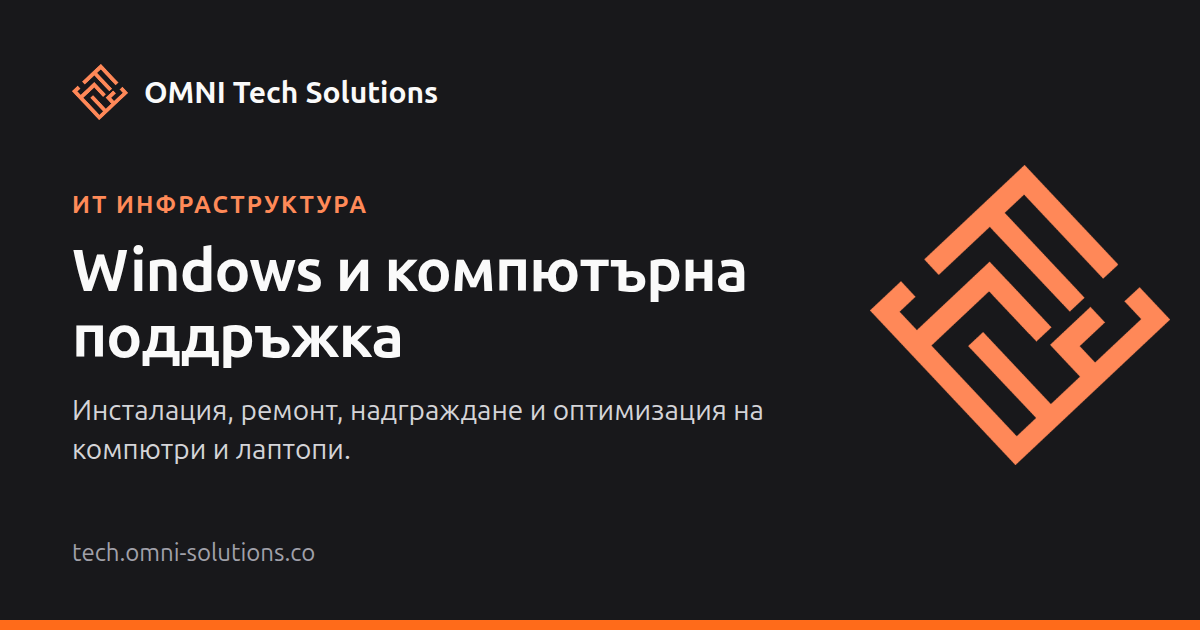
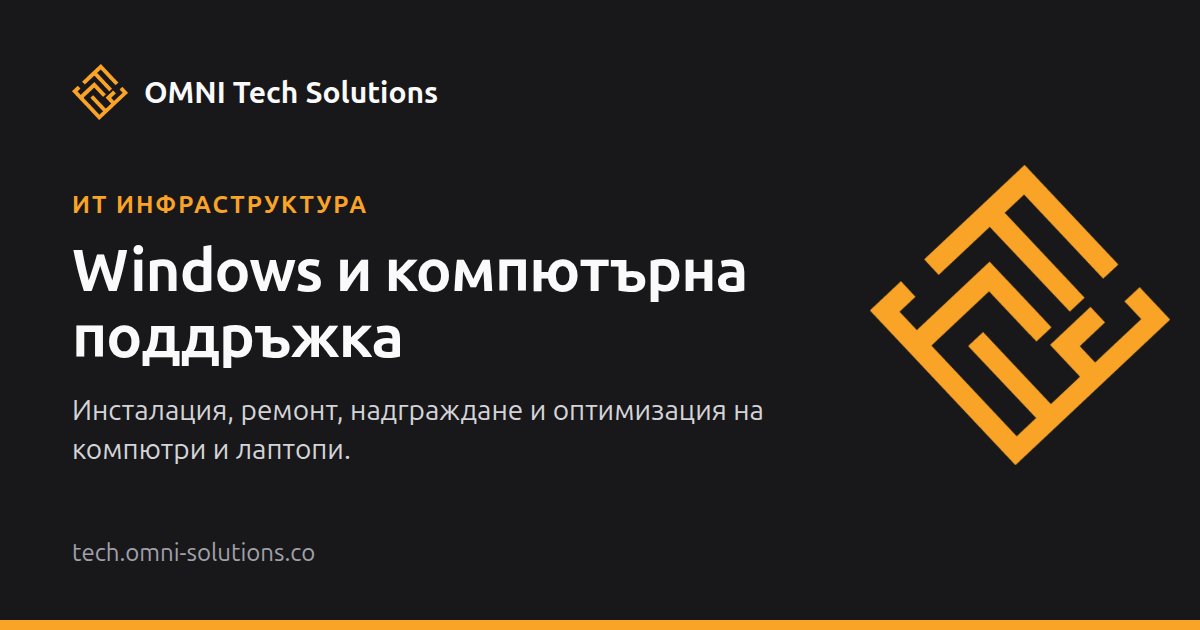
improvements

diff --git a/app/components/layout/Header.tsx b/app/components/layout/Header.tsx
@@ -85,7 +85,7 @@ export const Header: React.FC<HeaderProps> = ({ theme, toggleTheme, colors, acti
                 <div className="flex justify-between items-center h-20">
                     {/* Logo */}
                     <div className="flex items-center gap-3 cursor-pointer" onClick={() => scrollTo('home')}>
-                        {/* Same coral mark in both themes; 96 px file for a 48 px slot (scripts/brand/generate-icons.py) */}
+                        {/* Same yellow mark in both themes; 96 px file for a 48 px slot (scripts/brand/generate-icons.py) */}
                         <img
                             src="/assets/brand/logo-96.png"
                             width={48}
@@ -105,11 +105,11 @@ export const Header: React.FC<HeaderProps> = ({ theme, toggleTheme, colors, acti
                                 <button
                                     key={item.id}
                                     onClick={() => scrollTo(item.id)}
-                                    className={`flex items-center gap-2 py-2.5 ${activeSection === item.id ? 'text-[#ff6b1a]' : `${colors.textSec} hover:text-[#ff6b1a]`} transition-all duration-300 relative group focus:outline-none`}
+                                    className={`flex items-center gap-2 py-2.5 ${activeSection === item.id ? colors.accentText : `${colors.textSec} ${theme === 'dark' ? 'hover:text-[#f9a427]' : 'hover:text-[#a86400]'}`} transition-all duration-300 relative group focus:outline-none`}
                                 >
                                     {item.label}
                                     <span
-                                        className={`absolute -bottom-1 left-0 w-0 h-0.5 bg-[#ff6b1a] transition-all duration-300 group-hover:w-full ${
+                                        className={`absolute -bottom-1 left-0 w-0 h-0.5 bg-[#f9a427] transition-all duration-300 group-hover:w-full ${
                                             activeSection === item.id ? 'w-full' : ''
                                         }`}
                                     />
@@ -168,7 +168,7 @@ export const Header: React.FC<HeaderProps> = ({ theme, toggleTheme, colors, acti
                     {/* Mobile Menu Button */}
                     <button
                         onClick={() => setIsMenuOpen(!isMenuOpen)}
-                        className="md:hidden p-2 rounded-lg transition-all text-[#ff6b1a] hover:bg-[#ff6b1a]/10"
+                        className="md:hidden p-2 rounded-lg transition-all text-[#f9a427] hover:bg-[#f9a427]/10"
                     >
                         <svg className="w-8 h-8" fill="none" stroke="currentColor" viewBox="0 0 24 24">
                             <path
@@ -190,7 +190,7 @@ export const Header: React.FC<HeaderProps> = ({ theme, toggleTheme, colors, acti
                                     <button
                                         key={item.id}
                                         onClick={() => scrollTo(item.id)}
-                                        className={`flex items-center gap-3 w-full text-left py-3 px-4 rounded-lg ${activeSection === item.id ? 'text-[#ff6b1a] bg-[#ff6b1a]/10' : 'text-zinc-200 hover:text-[#ff6b1a] hover:bg-[#ff6b1a]/10'} transition-all duration-300 focus:outline-none`}
+                                        className={`flex items-center gap-3 w-full text-left py-3 px-4 rounded-lg ${activeSection === item.id ? 'text-[#f9a427] bg-[#f9a427]/10' : 'text-zinc-200 hover:text-[#f9a427] hover:bg-[#f9a427]/10'} transition-all duration-300 focus:outline-none`}
                                     >
                                         {item.label}
                                     </button>

diff --git a/app/components/sections/ServiceDetails.tsx b/app/components/sections/ServiceDetails.tsx
@@ -38,7 +38,7 @@ interface ServiceDetailPageProps {
 /**
  * Service page, kept as plain as the homepage: what it is and what it costs,
  * what's included, the price list, how the work goes, and one call to action.
- * Orange is reserved for the primary button.
+ * The brand yellow is reserved for the primary button.
  */
 export const ServiceDetailPage: React.FC<ServiceDetailPageProps> = ({ colors }) => {
     const { t } = useTranslation();
@@ -58,9 +58,9 @@ export const ServiceDetailPage: React.FC<ServiceDetailPageProps> = ({ colors }) 
     // The contact form lives on the homepage
     const goToContact = () => router.push('/#contact');
 
-    const primaryButton = `group inline-flex items-center justify-center gap-2 px-7 py-3.5 font-semibold text-white ${BORDER_RADIUS.md} transition-colors duration-200 hover:bg-[#e85d0f] focus:outline-none focus-visible:ring-2 focus-visible:ring-[#ff6b1a] focus-visible:ring-offset-2`;
+    const primaryButton = `group inline-flex items-center justify-center gap-2 px-7 py-3.5 font-semibold text-zinc-950 ${BORDER_RADIUS.md} transition-colors duration-200 hover:bg-[#e8930f] focus:outline-none focus-visible:ring-2 focus-visible:ring-[#f9a427] focus-visible:ring-offset-2`;
     // Both places the buttons appear are dark bands on phones, hence the max-sm colours
-    const secondaryButton = `inline-flex items-center justify-center gap-2 px-7 py-3.5 font-semibold ${BORDER_RADIUS.md} border ${colors.border} ${colors.text} max-sm:border-zinc-700 max-sm:text-white max-sm:bg-white/5 transition-colors duration-200 hover:border-zinc-400 focus:outline-none focus-visible:ring-2 focus-visible:ring-[#ff6b1a] focus-visible:ring-offset-2`;
+    const secondaryButton = `inline-flex items-center justify-center gap-2 px-7 py-3.5 font-semibold ${BORDER_RADIUS.md} border ${colors.border} ${colors.text} max-sm:border-zinc-700 max-sm:text-white max-sm:bg-white/5 transition-colors duration-200 hover:border-zinc-400 focus:outline-none focus-visible:ring-2 focus-visible:ring-[#f9a427] focus-visible:ring-offset-2`;
 
     if (!service || !config || !IconComponent) {
         return (
@@ -136,10 +136,10 @@ export const ServiceDetailPage: React.FC<ServiceDetailPageProps> = ({ colors }) 
 
                     <div className="mt-10 max-w-3xl">
                         <div className="flex items-center gap-3 mb-5">
-                            <span className={`w-12 h-12 rounded-xl flex items-center justify-center ${isDark ? 'bg-zinc-700/60' : 'bg-gray-100'} max-sm:bg-[#ff6b1a]/15`}>
-                                <IconComponent className={`w-6 h-6 ${colors.text} max-sm:text-[#ff8a58]`} strokeWidth={2} />
+                            <span className={`w-12 h-12 rounded-xl flex items-center justify-center ${isDark ? 'bg-zinc-700/60' : 'bg-gray-100'} max-sm:bg-[#f9a427]/15`}>
+                                <IconComponent className={`w-6 h-6 ${colors.text} max-sm:text-[#f9a427]`} strokeWidth={2} />
                             </span>
-                            <span className={`text-sm font-semibold uppercase tracking-wider ${colors.textTer} max-sm:text-[#ff8a58]`}>
+                            <span className={`text-sm font-semibold uppercase tracking-wider ${colors.textTer} max-sm:text-[#f9a427]`}>
                                 {t(`services.groups.${config.group}.title`)}
                             </span>
                         </div>

diff --git a/app/components/sections/ServicesSection.tsx b/app/components/sections/ServicesSection.tsx
@@ -63,15 +63,15 @@ export const ServicesSection: React.FC<ServicesSectionProps> = ({ colors }) => {
                                             <Link
                                                 key={config.id}
                                                 href={`/services/${config.id}`}
-                                                className={`group flex flex-col ${colors.card} border ${colors.border} p-5 sm:p-6 ${BORDER_RADIUS.lg} max-sm:shadow-[0_6px_20px_-8px_rgba(0,0,0,0.18)] transition-colors duration-200 hover:border-[#ff6b1a] focus-visible:outline-none focus-visible:ring-2 focus-visible:ring-[#ff6b1a]`}
+                                                className={`group flex flex-col ${colors.card} border ${colors.border} p-5 sm:p-6 ${BORDER_RADIUS.lg} max-sm:shadow-[0_6px_20px_-8px_rgba(0,0,0,0.18)] transition-colors duration-200 hover:border-[#f9a427] focus-visible:outline-none focus-visible:ring-2 focus-visible:ring-[#f9a427]`}
                                             >
                                                 {/* Phones: icon beside the title for a compact, scannable list; larger screens: stacked */}
                                                 <div className="flex items-center gap-4 sm:block">
                                                     <span
                                                         className="w-12 h-12 flex-shrink-0 sm:mb-5 rounded-xl flex items-center justify-center transition-transform duration-200 group-hover:scale-105"
-                                                        style={{ backgroundColor: `${COLORS.primary}14` }}
+                                                        style={{ backgroundColor: `${COLORS.primary}24` }}
                                                     >
-                                                        <Icon className="w-6 h-6" style={{ color: COLORS.primary }} strokeWidth={2} />
+                                                        <Icon className={`w-6 h-6 ${colors.accentText}`} strokeWidth={2} />
                                                     </span>
                                                     <h4 className={`text-lg font-semibold leading-snug sm:mb-2 ${colors.text}`}>
                                                         {service.title}
@@ -83,7 +83,7 @@ export const ServicesSection: React.FC<ServicesSectionProps> = ({ colors }) => {
                                                 <div className={`mt-5 pt-4 border-t ${colors.borderLight} flex items-center justify-between gap-3`}>
                                                     <ServicePrice service={config} colors={colors} tone="accent" />
                                                     <ArrowRight
-                                                        className={`w-5 h-5 ${colors.textTer} transition-all duration-200 group-hover:translate-x-1 group-hover:text-[#ff6b1a]`}
+                                                        className={`w-5 h-5 ${colors.textTer} transition-all duration-200 group-hover:translate-x-1 group-hover:text-[#f9a427]`}
                                                         aria-hidden
                                                     />
                                                 </div>

diff --git a/app/components/sections/HeroSection.tsx b/app/components/sections/HeroSection.tsx
@@ -20,7 +20,7 @@ export const HeroSection: React.FC<HeroSectionProps> = ({ colors }) => {
     return (
         <section id="home" className="relative flex items-center min-h-[80svh] pt-20 overflow-hidden max-sm:bg-zinc-950">
             <div className={`omni-reveal relative ${CONTAINER} w-full py-20 sm:py-28 text-center`}>
-                <p className={`text-sm font-semibold uppercase tracking-wider mb-5 ${colors.textTer} max-sm:text-[#ff8a58]`}>
+                <p className={`text-sm font-semibold uppercase tracking-wider mb-5 ${colors.textTer} max-sm:text-[#f9a427]`}>
                     {t('hero.badge')}
                 </p>
 
@@ -36,7 +36,7 @@ export const HeroSection: React.FC<HeroSectionProps> = ({ colors }) => {
                 <div className="mt-10 flex flex-col sm:flex-row gap-3 justify-center">
                     <a
                         href="#contact"
-                        className="group inline-flex items-center justify-center gap-2 px-7 py-3.5 font-semibold text-white rounded-xl transition-colors duration-200 hover:bg-[#e85d0f] max-sm:shadow-[0_12px_30px_-10px_rgba(255,107,26,0.7)] focus:outline-none focus-visible:ring-2 focus-visible:ring-[#ff6b1a] focus-visible:ring-offset-2"
+                        className="group inline-flex items-center justify-center gap-2 px-7 py-3.5 font-semibold text-zinc-950 rounded-xl transition-colors duration-200 hover:bg-[#e8930f] max-sm:shadow-[0_12px_30px_-10px_rgba(249,164,39,0.7)] focus:outline-none focus-visible:ring-2 focus-visible:ring-[#f9a427] focus-visible:ring-offset-2"
                         style={{ backgroundColor: COLORS.primary }}
                     >
                         {t('hero.cta')}
@@ -44,7 +44,7 @@ export const HeroSection: React.FC<HeroSectionProps> = ({ colors }) => {
                     </a>
                     <a
                         href="#services"
-                        className={`inline-flex items-center justify-center px-7 py-3.5 font-semibold rounded-xl border ${colors.border} ${colors.text} max-sm:border-zinc-700 max-sm:text-white max-sm:bg-white/5 transition-colors duration-200 hover:border-zinc-400 focus:outline-none focus-visible:ring-2 focus-visible:ring-[#ff6b1a] focus-visible:ring-offset-2`}
+                        className={`inline-flex items-center justify-center px-7 py-3.5 font-semibold rounded-xl border ${colors.border} ${colors.text} max-sm:border-zinc-700 max-sm:text-white max-sm:bg-white/5 transition-colors duration-200 hover:border-zinc-400 focus:outline-none focus-visible:ring-2 focus-visible:ring-[#f9a427] focus-visible:ring-offset-2`}
                     >
                         {t('hero.learnMore')}
                     </a>

diff --git a/app/components/sections/TechnologiesSection.tsx b/app/components/sections/TechnologiesSection.tsx
@@ -103,10 +103,10 @@ export const TechnologiesSection: React.FC<TechnologiesSectionProps> = ({ colors
                                 key={cat}
                                 onClick={() => setActiveCategory(cat)}
                                 aria-pressed={isActive}
-                                className={`px-4 py-2 rounded-full text-sm font-medium border transition-all duration-300 focus-visible:outline-none focus-visible:ring-2 focus-visible:ring-[#ff6b1a] focus-visible:ring-offset-2 focus-visible:ring-offset-transparent ${
+                                className={`px-4 py-2 rounded-full text-sm font-medium border transition-all duration-300 focus-visible:outline-none focus-visible:ring-2 focus-visible:ring-[#f9a427] focus-visible:ring-offset-2 focus-visible:ring-offset-transparent ${
                                     isActive
-                                        ? 'text-white border-transparent shadow-[0_8px_20px_-8px_rgba(255,107,26,0.8)]'
-                                        : `${colors.textSec} ${colors.borderLight} hover:border-[#ff6b1a] hover:text-[#ff6b1a]`
+                                        ? 'text-white border-transparent shadow-[0_8px_20px_-8px_rgba(249,164,39,0.8)]'
+                                        : `${colors.textSec} ${colors.borderLight} hover:border-[#f9a427] hover:text-[#f9a427]`
                                 }`}
                                 style={isActive ? {
                                     background: `linear-gradient(135deg, ${COLORS.primary}, ${COLORS.primaryHover})`,
@@ -128,7 +128,7 @@ export const TechnologiesSection: React.FC<TechnologiesSectionProps> = ({ colors
                     {filtered.map((tech, index) => (
                         <div
                             key={tech.name}
-                            className={`omni-reveal group flex items-center gap-3 px-5 py-3 rounded-xl border transition-all duration-300 cursor-default hover:-translate-y-1 hover:border-[#ff6b1a] hover:shadow-[0_12px_28px_-14px_rgba(255,107,26,0.6)] ${
+                            className={`omni-reveal group flex items-center gap-3 px-5 py-3 rounded-xl border transition-all duration-300 cursor-default hover:-translate-y-1 hover:border-[#f9a427] hover:shadow-[0_12px_28px_-14px_rgba(249,164,39,0.6)] ${
                                 theme === 'dark'
                                     ? 'bg-zinc-900/60 hover:bg-zinc-800/80 border-zinc-700'
                                     : `${colors.card} ${colors.border} ${colors.cardHover}`

diff --git a/app/components/sections/FAQSection.tsx b/app/components/sections/FAQSection.tsx
@@ -109,7 +109,7 @@ export const FAQSection: React.FC<FAQSectionProps> = ({ colors }) => {
               <div
                 key={index}
                 className={`omni-reveal ${colors.card} rounded-2xl border ${colors.border} overflow-hidden transition-all duration-300 ${
-                  isOpen ? 'shadow-[0_16px_36px_-18px_rgba(255,107,26,0.5)]' : ''
+                  isOpen ? 'shadow-[0_16px_36px_-18px_rgba(249,164,39,0.5)]' : ''
                 }`}
                 style={{
                   animationDelay: `${Math.min(index * 60, 360)}ms`,
@@ -118,7 +118,7 @@ export const FAQSection: React.FC<FAQSectionProps> = ({ colors }) => {
               >
                 <button
                   onClick={() => toggleFAQ(index)}
-                  className={`w-full px-5 sm:px-6 py-5 flex items-center justify-between gap-4 text-left transition-colors duration-300 ${colors.cardHover} focus-visible:outline-none focus-visible:ring-2 focus-visible:ring-inset focus-visible:ring-[#ff6b1a]`}
+                  className={`w-full px-5 sm:px-6 py-5 flex items-center justify-between gap-4 text-left transition-colors duration-300 ${colors.cardHover} focus-visible:outline-none focus-visible:ring-2 focus-visible:ring-inset focus-visible:ring-[#f9a427]`}
                   aria-expanded={isOpen}
                   aria-controls={`faq-answer-${index}`}
                 >
@@ -167,7 +167,7 @@ export const FAQSection: React.FC<FAQSectionProps> = ({ colors }) => {
           </p>
           <a
             href="#contact"
-            className="group inline-flex items-center gap-2 px-7 py-3.5 font-semibold text-white rounded-xl transition-all duration-300 hover:-translate-y-0.5 hover:shadow-xl focus-visible:outline-none focus-visible:ring-2 focus-visible:ring-[#ff6b1a] focus-visible:ring-offset-2 focus-visible:ring-offset-transparent"
+            className="group inline-flex items-center gap-2 px-7 py-3.5 font-semibold text-white rounded-xl transition-all duration-300 hover:-translate-y-0.5 hover:shadow-xl focus-visible:outline-none focus-visible:ring-2 focus-visible:ring-[#f9a427] focus-visible:ring-offset-2 focus-visible:ring-offset-transparent"
             style={{
               background: `linear-gradient(135deg, ${COLORS.primary}, ${COLORS.primaryHover})`,
               boxShadow: `0 10px 24px -8px ${COLORS.primary}80`,

diff --git a/app/hooks/useActiveSection.ts b/app/hooks/useActiveSection.ts
@@ -1,27 +1,45 @@
 import { useState, useEffect } from 'react';
 
+const SECTIONS = ['home', 'services', 'about', 'contact'];
+
+/**
+ * Which homepage section the visitor is looking at, for the navbar highlight.
+ *
+ * The current section is the last one whose top has passed a line about a third
+ * of the way down the screen. When the page is scrolled to the very bottom, the
+ * last section wins — the contact section is short and sits at the end of the
+ * page, so the page can never scroll far enough for it to reach that line.
+ */
 export const useActiveSection = () => {
   const [activeSection, setActiveSection] = useState('home');
 
   useEffect(() => {
-    const handleScroll = () => {
-      const sections = ['home', 'services', 'about', 'contact'];
-      const scrollPosition = window.scrollY + 100;
+    const update = () => {
+      const scrolledToBottom =
+        window.innerHeight + window.scrollY >= document.documentElement.scrollHeight - 2;
+      if (scrolledToBottom && document.getElementById(SECTIONS[SECTIONS.length - 1])) {
+        setActiveSection(SECTIONS[SECTIONS.length - 1]);
+        return;
+      }
 
-      for (const section of sections) {
-        const element = document.getElementById(section);
-        if (element) {
-          const { offsetTop, offsetHeight } = element;
-          if (scrollPosition >= offsetTop && scrollPosition < offsetTop + offsetHeight) {
-            setActiveSection(section);
-            break;
-          }
+      const line = window.innerHeight * 0.35;
+      let current = SECTIONS[0];
+      for (const id of SECTIONS) {
+        const element = document.getElementById(id);
+        if (element && element.getBoundingClientRect().top <= line) {
+          current = id;
         }
       }
+      setActiveSection(current);
     };
 
-    window.addEventListener('scroll', handleScroll);
-    return () => window.removeEventListener('scroll', handleScroll);
+    update();
+    window.addEventListener('scroll', update, { passive: true });
+    window.addEventListener('resize', update);
+    return () => {
+      window.removeEventListener('scroll', update);
+      window.removeEventListener('resize', update);
+    };
   }, []);
 
   return activeSection;

diff --git a/app/components/sections/TestimonialsSection.tsx b/app/components/sections/TestimonialsSection.tsx
@@ -154,7 +154,7 @@ export const TestimonialsSection: React.FC<TestimonialsSectionProps> = ({ colors
           {testimonials.map((testimonial, index) => (
             <div
               key={index}
-              className={`omni-reveal group relative flex flex-col overflow-hidden ${colors.card} rounded-2xl border ${colors.border} p-6 sm:p-7 transition-all duration-300 hover:-translate-y-1.5 hover:border-[#ff6b1a] hover:shadow-[0_18px_40px_-12px_rgba(255,107,26,0.35)]`}
+              className={`omni-reveal group relative flex flex-col overflow-hidden ${colors.card} rounded-2xl border ${colors.border} p-6 sm:p-7 transition-all duration-300 hover:-translate-y-1.5 hover:border-[#f9a427] hover:shadow-[0_18px_40px_-12px_rgba(249,164,39,0.35)]`}
               style={{ animationDelay: `${index * 80}ms` }}
             >
               {/* Top accent line — grows on hover */}
@@ -211,7 +211,7 @@ export const TestimonialsSection: React.FC<TestimonialsSectionProps> = ({ colors
           </p>
           <a
             href="#contact"
-            className="group inline-flex items-center gap-2 px-8 py-4 font-semibold text-white rounded-xl transition-all duration-300 hover:-translate-y-0.5 hover:shadow-xl text-base sm:text-lg focus-visible:outline-none focus-visible:ring-2 focus-visible:ring-[#ff6b1a] focus-visible:ring-offset-2 focus-visible:ring-offset-transparent"
+            className="group inline-flex items-center gap-2 px-8 py-4 font-semibold text-white rounded-xl transition-all duration-300 hover:-translate-y-0.5 hover:shadow-xl text-base sm:text-lg focus-visible:outline-none focus-visible:ring-2 focus-visible:ring-[#f9a427] focus-visible:ring-offset-2 focus-visible:ring-offset-transparent"
             style={{
               background: `linear-gradient(135deg, ${COLORS.primary}, ${COLORS.primaryHover})`,
               boxShadow: `0 10px 24px -8px ${COLORS.primary}80`,

diff --git a/app/layout.tsx b/app/layout.tsx
@@ -6,9 +6,12 @@ export const viewport: Viewport = {
   width: 'device-width',
   initialScale: 1,
   maximumScale: 5,
+  // Browser bar colour. Phones: black, to match the always-dark mobile header.
+  // Larger screens: the entry without a media query, kept in sync with the
+  // site theme toggle by the pre-paint script below and by useTheme.
   themeColor: [
-    { media: '(prefers-color-scheme: light)', color: '#ffffff' },
-    { media: '(prefers-color-scheme: dark)', color: '#18181b' }
+    { media: '(max-width: 767px)', color: '#09090b' },
+    { color: '#ffffff' }
   ]
 };
 
@@ -106,8 +109,18 @@ export default function RootLayout({
   children: React.ReactNode;
 }) {
   return (
-    <html lang="bg">
+    // suppressHydrationWarning: the pre-paint script adds the theme class before React loads
+    <html lang="bg" suppressHydrationWarning>
       <head>
+        {/*
+          Apply the saved theme before the first paint, so the page canvas and the
+          browser bar never flash white for visitors who chose the dark theme.
+        */}
+        <script
+          dangerouslySetInnerHTML={{
+            __html: "try{var t=localStorage.getItem('theme')==='dark'?'dark':'light';document.documentElement.classList.add(t);if(t==='dark'){var m=document.querySelector('meta[name=\"theme-color\"]:not([media])');if(m)m.setAttribute('content','#18181b')}}catch(e){}"
+          }}
+        />
         {/* Structured Data */}
         <script
           type="application/ld+json"

diff --git a/app/components/sections/ContactSection.tsx b/app/components/sections/ContactSection.tsx
@@ -12,7 +12,7 @@ interface ContactSectionProps {
 
 const CONTACT_EMAIL = 'support@omni-solutions.co';
 
-const fieldClasses = 'w-full px-4 py-3 rounded-xl border transition-colors duration-200 outline-none focus:border-[#ff6b1a] focus:ring-4 focus:ring-[#ff6b1a]/10';
+const fieldClasses = 'w-full px-4 py-3 rounded-xl border transition-colors duration-200 outline-none focus:border-[#f9a427] focus:ring-4 focus:ring-[#f9a427]/10';
 
 export const ContactSection: React.FC<ContactSectionProps> = ({ colors }) => {
     const { t } = useTranslation();
@@ -147,7 +147,7 @@ export const ContactSection: React.FC<ContactSectionProps> = ({ colors }) => {
 
                         <button
                             type="submit"
-                            className={`group w-full py-3.5 px-6 ${BORDER_RADIUS.md} font-semibold text-white transition-colors duration-200 hover:bg-[#e85d0f] flex items-center justify-center gap-2 focus-visible:outline-none focus-visible:ring-2 focus-visible:ring-[#ff6b1a] focus-visible:ring-offset-2`}
+                            className={`group w-full py-3.5 px-6 ${BORDER_RADIUS.md} font-semibold text-zinc-950 transition-colors duration-200 hover:bg-[#e8930f] flex items-center justify-center gap-2 focus-visible:outline-none focus-visible:ring-2 focus-visible:ring-[#f9a427] focus-visible:ring-offset-2`}
                             style={{ backgroundColor: COLORS.primary }}
                         >
                             {t('contact.submit')}

diff --git a/app/styles/theme.ts b/app/styles/theme.ts
@@ -4,9 +4,11 @@
  */
 
 export const COLORS = {
-    primary: '#ff6b1a',
-    primaryHover: '#e85d0f',
-    primaryDark: '#cc5000',
+    // The logo's yellow. Put near-black text on it — white on yellow is unreadable.
+    primary: '#f9a427',
+    primaryHover: '#e8930f',
+    // Readable amber for yellow-ish text on light backgrounds (4.7:1 on white)
+    primaryDark: '#a86400',
 
     dark: {
         bg: 'bg-zinc-950',
@@ -18,6 +20,8 @@ export const COLORS = {
         text: 'text-zinc-100',
         textSec: 'text-zinc-300',
         textTer: 'text-zinc-400',
+        /** Brand-coloured text (prices, active nav, icons) — plain yellow reads well on dark */
+        accentText: 'text-[#f9a427]',
         border: 'border-zinc-700',
         borderLight: 'border-zinc-700/70',
         input: 'bg-zinc-900',
@@ -35,6 +39,8 @@ export const COLORS = {
         text: 'text-gray-900',
         textSec: 'text-gray-700',
         textTer: 'text-gray-600',
+        /** Brand-coloured text on light backgrounds — darker amber, since yellow on white is 2:1 */
+        accentText: 'text-[#a86400]',
         border: 'border-gray-300',
         borderLight: 'border-gray-200',
         input: 'bg-white',

diff --git a/app/components/ui/ServicePrice.tsx b/app/components/ui/ServicePrice.tsx
@@ -2,7 +2,6 @@
 
 import React from 'react';
 import { useTranslation } from 'react-i18next';
-import { COLORS } from '@/app/styles/theme';
 import type { ServiceConfig } from '@/app/config/services';
 
 interface ServicePriceProps {
@@ -42,8 +41,7 @@ export const ServicePrice: React.FC<ServicePriceProps> = ({ service, colors, var
                 {t('services.priceFrom')}
             </span>
             <span
-                className={`${isDetail ? 'text-3xl sm:text-4xl' : 'text-xl'} font-bold ${inverse ? 'text-white' : tone === 'accent' ? 'bg-clip-text text-transparent' : colors.text}${darkMobileMain}`}
-                style={tone === 'accent' ? { backgroundImage: `linear-gradient(135deg, ${COLORS.primary}, ${COLORS.primaryHover})` } : undefined}
+                className={`${isDetail ? 'text-3xl sm:text-4xl' : 'text-xl'} font-bold ${inverse ? 'text-white' : tone === 'accent' ? colors.accentText : colors.text}${darkMobileMain}`}
             >
                 {service.priceFrom} €
             </span>
